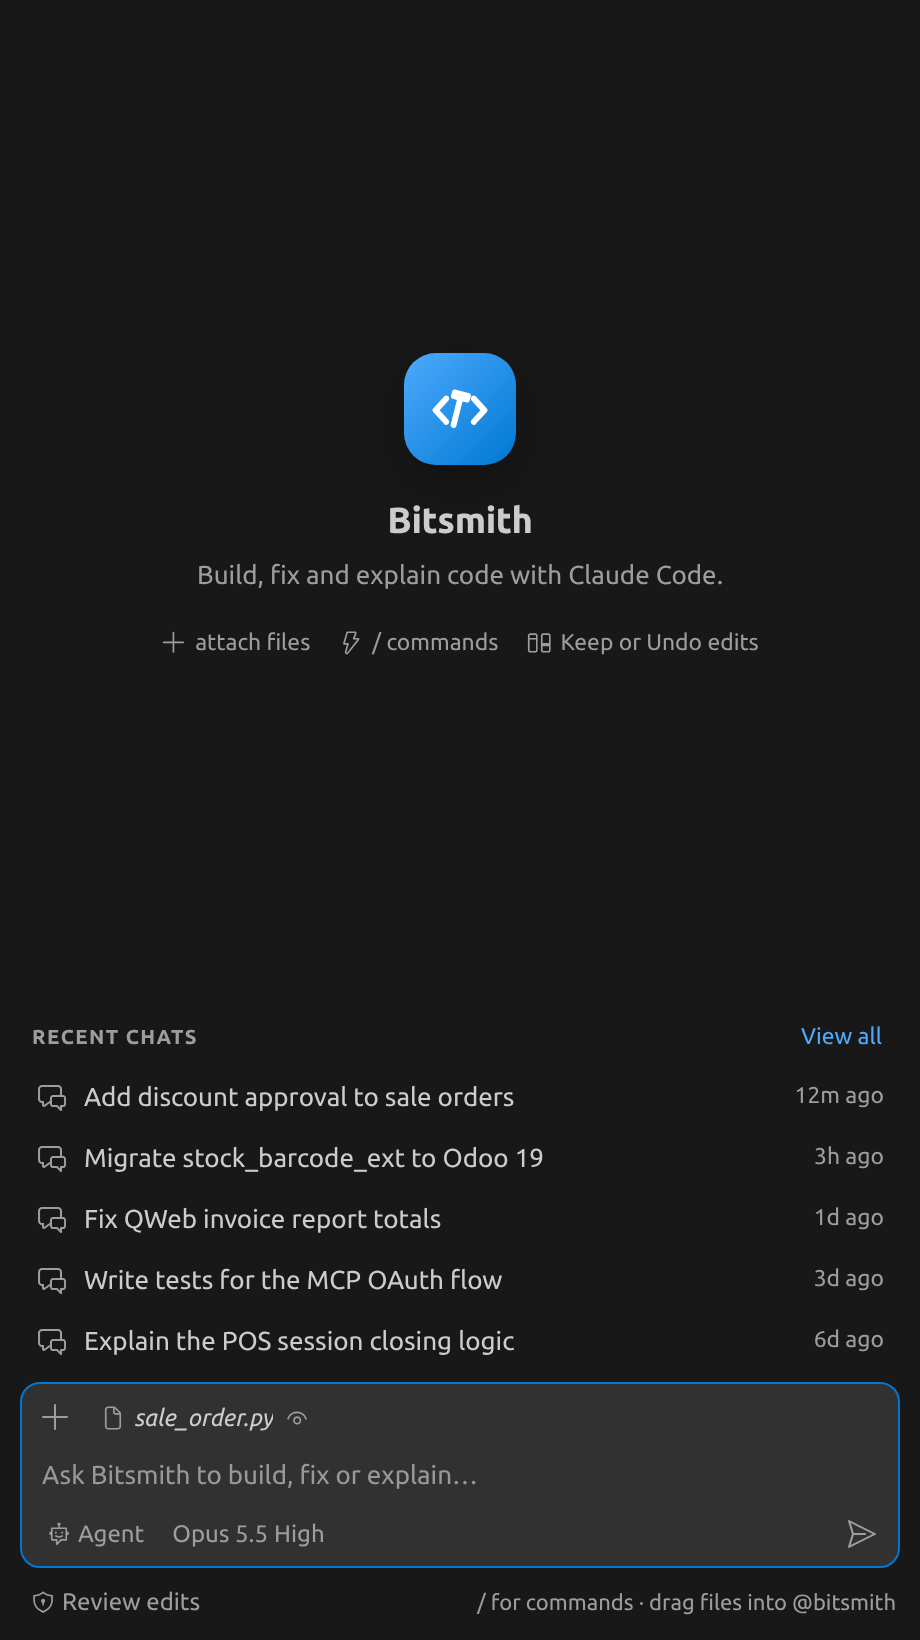
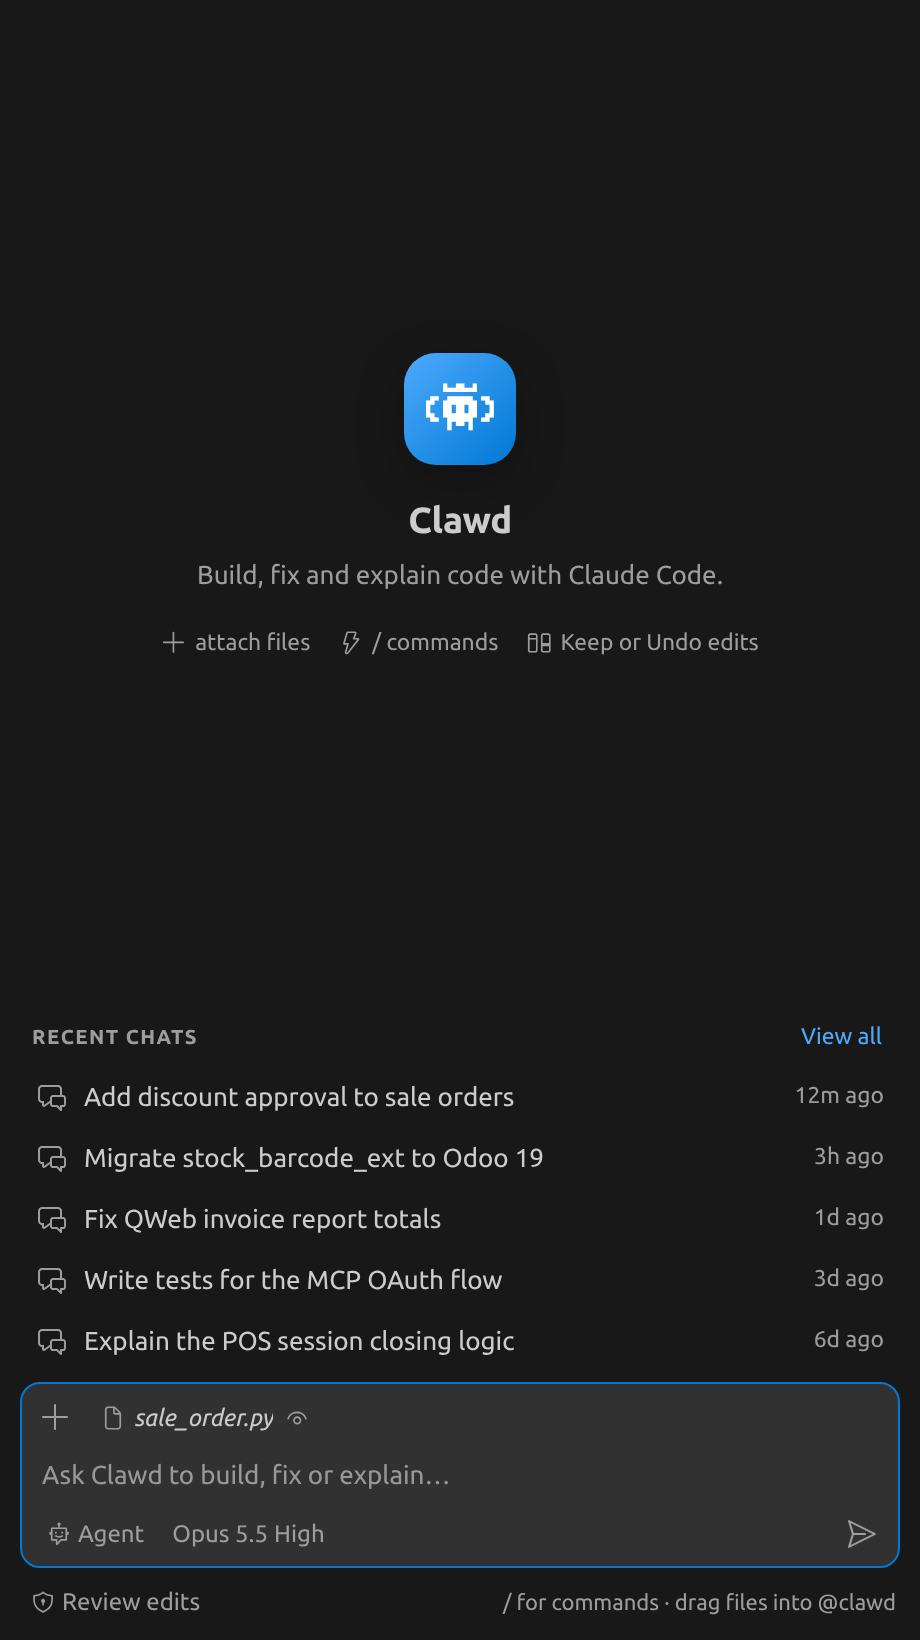
Prepare 1.0.3 for the Marketplace
- Make the plan-usage request opt-in (clawd.pollUsage, off by default);
  usage now updates from Claude Code with each reply
- Add categories, keywords, bugs, homepage and gallery banner to package.json
- README: Marketplace install, independent-project note instead of
  "personal use only", every setting, Agent Changes and Browser tools
- Retake the README screenshots as Clawd and add four new ones
- Leave docs/ out of the .vsix (the Marketplace loads them from GitHub)

diff --git a/extension.js b/extension.js
@@ -1308,7 +1308,7 @@ class ChatProvider {
   // An editor-tab chat's webview loaded: settings, then the conversation from its transcript.
   panelReady(c) {
     c.panel.webview.postMessage({ type: "settings", ...c.settings() });
-    c.panel.webview.postMessage({ type: "usage", usage: this.usage, plan: this.plan });
+    c.panel.webview.postMessage({ type: "usage", usage: this.usage, plan: this.plan, poll: !!vscode.workspace.getConfiguration("clawd").get("pollUsage") });
     if (this.info) c.panel.webview.postMessage({ type: "init", ...this.info });
     c.panel.webview.postMessage({ type: "chats", chats: [{ key: c.key, title: c.title }], active: c.key });
     if (this.folder) c.panel.webview.postMessage(this.sessionsMsg());
@@ -1379,7 +1379,7 @@ class ChatProvider {
       case "openInEditor": return this.openInEditor(c);
       case "ready":
         this.active.postSettings();
-        this.post({ type: "usage", usage: this.usage, plan: this.plan });
+        this.post({ type: "usage", usage: this.usage, plan: this.plan, poll: !!vscode.workspace.getConfiguration("clawd").get("pollUsage") });
         if (this.usageRequested) { this.usageRequested = false; this.post({ type: "showUsage" }); }
         if (this.info) this.post({ type: "init", ...this.info });
         this.post({ type: "chats", chats: [...this.chats.values()].filter((x) => !x.panel).map((x) => ({ key: x.key, title: x.title })), active: this.active.key });
@@ -1658,8 +1658,9 @@ class ChatProvider {
   // ---- plan usage: the CLI's rate_limit_event while chatting, plus a poll of the account's usage endpoint ----
   // Other Claude sessions (terminal, other windows) use the same limits, so the reading from our last message goes stale.
 
+  // Opt-in (clawd.pollUsage): it's the one request Clawd makes itself, with the login Claude Code saved.
   async fetchUsage(force = false) {
-    if (this.fetchingUsage || (!force && this.usage?.updated > Date.now() - USAGE_POLL / 2)) return;
+    if (!vscode.workspace.getConfiguration("clawd").get("pollUsage") || this.fetchingUsage ||(!force && this.usage?.updated > Date.now() - USAGE_POLL / 2)) return;
     this.fetchingUsage = true;
     try {
       const dir = process.env.CLAUDE_CONFIG_DIR || path.join(os.homedir(), ".claude");
@@ -1705,7 +1706,7 @@ class ChatProvider {
   }
 
   updateUsage() {
-    this.post({ type: "usage", usage: this.usage, plan: this.plan });
+    this.post({ type: "usage", usage: this.usage, plan: this.plan, poll: !!vscode.workspace.getConfiguration("clawd").get("pollUsage") });
     const item = this.statusItem;
     if (!item) return;
     const pct = (x) => (x?.used == null ? null : Math.round(x.used * 100));
@@ -2680,8 +2681,10 @@ function activate(context) {
   context.subscriptions.push({ dispose: () => clearInterval(poll) });
   if (vscode.window.onDidChangeWindowState) context.subscriptions.push(vscode.window.onDidChangeWindowState((s) => s.focused && provider.fetchUsage()));
   context.subscriptions.push(status, vscode.commands.registerCommand("clawd.showUsage", () => provider.showUsage()));
-  if (vscode.workspace.onDidChangeConfiguration) context.subscriptions.push(vscode.workspace.onDidChangeConfiguration((e) => e.affectsConfiguration("clawd.browser")
-    && new Set([provider.active, ...provider.chats.values()]).forEach((c) => c?.postSettings()))); // the switch follows Settings
+  if (vscode.workspace.onDidChangeConfiguration) context.subscriptions.push(vscode.workspace.onDidChangeConfiguration((e) => {
+    if (e.affectsConfiguration("clawd.browser")) new Set([provider.active, ...provider.chats.values()]).forEach((c) => c?.postSettings()); // the switch follows Settings
+    if (e.affectsConfiguration("clawd.pollUsage")) { provider.updateUsage(); provider.fetchUsage(true); } // the usage card's footer, and a first reading
+  }));
   const work = vscode.window.createStatusBarItem("clawd.work", vscode.StatusBarAlignment.Right, 101);
   work.name = "Clawd Activity";
   work.command = "clawd.showWorking";

diff --git a/media/chat.js b/media/chat.js
@@ -1328,8 +1328,9 @@ function renderUsage() {
       h("button", { class: "primary small", onclick: () => send({ type: "openUsagePage" }) }, "Manage"),
       h("button", { class: "icon-btn", title: "Close", onclick: () => usageCard.classList.add("hidden") }, icon("close"))),
     ...rows,
-    h("div", { class: "usage-foot muted small" }, icon("info"), h("span", { class: "grow" }, u?.updated ? `Updated ${ago(u.updated)} · refreshes every 2 min` : "Refreshes every 2 min"),
-      h("button", { class: "icon-btn", title: "Refresh now", onclick: () => send({ type: "refreshUsage" }) }, icon("refresh"))));
+    // without clawd.pollUsage the only source is Claude Code's own reading, which comes with each reply
+    h("div", { class: "usage-foot muted small" }, icon("info"), h("span", { class: "grow" }, [u?.updated && `Updated ${ago(u.updated)}`, S.pollUsage ? "refreshes every 2 min" : "updates with each reply"].filter(Boolean).join(" · ")),
+      S.pollUsage && h("button", { class: "icon-btn", title: "Refresh now", onclick: () => send({ type: "refreshUsage" }) }, icon("refresh"))));
 }
 setInterval(() => { if (!usageCard.classList.contains("hidden")) renderUsage(); }, 30000); // keep "Updated … ago" honest while open
 
@@ -1521,7 +1522,7 @@ function handle(m) {
     case "agentProgress": { const row = stepRow(m.toolUseId); if (row && m.text) row.title = m.text; return; }
     case "settings": Object.assign(S, { model: m.model, effort: m.effort, ultracode: m.ultracode, browser: m.browser, mode: m.mode, policy: m.policy, agents: m.agents || [] }); return renderToolbar();
     case "init": S.models = m.models; S.commands = m.commands; return renderToolbar();
-    case "usage": S.usage = m.usage; S.plan = m.plan; return renderUsage();
+    case "usage": S.usage = m.usage; S.plan = m.plan; S.pollUsage = m.poll; return renderUsage();
     case "showUsage": renderUsage(); usageCard.classList.toggle("hidden"); return;
     case "activeFile": S.active = m.file; return renderChips();
     case "addContext": return addItems(m.items);

diff --git a/test/e2e.js b/test/e2e.js
@@ -448,8 +448,12 @@ const said = (p) => p.filter((m) => m.type === "text").map((m) => m.text).join("
     const cfg = fs.mkdtempSync(path.join(require("os").tmpdir(), "bs-cfg-")), noFetch = global.fetch, oldDir = process.env.CLAUDE_CONFIG_DIR, calls = [];
     fs.writeFileSync(path.join(cfg, ".credentials.json"), JSON.stringify({ claudeAiOauth: { accessToken: "tok", expiresAt: Date.now() + 3600e3 } }));
     process.env.CLAUDE_CONFIG_DIR = cfg;
+    const usageCfg = vscode.workspace.getConfiguration;
     global.fetch = async (url, o) => { calls.push([url, o.headers.Authorization]); return { ok: true, json: async () => ({
       five_hour: { utilization: 81, resets_at: "2026-10-05T09:20:00+00:00" }, seven_day: { utilization: 100, resets_at: "2026-10-09T19:00:00+00:00" }, extra_usage: { is_enabled: false } }) }; };
+    await provider.fetchUsage(true);
+    assert.strictEqual(calls.length, 0, "no request unless clawd.pollUsage is on");
+    vscode.workspace.getConfiguration = () => ({ get: (k) => (k === "pollUsage" ? true : usageCfg().get(k)) });
     await provider.fetchUsage(true);
     await provider.fetchUsage(); // just updated: no second request
     assert.deepStrictEqual(calls, [["https://api.anthropic.com/api/oauth/usage", "Bearer tok"]]);
@@ -463,7 +467,7 @@ const said = (p) => p.filter((m) => m.type === "text").map((m) => m.text).join("
     await provider.fetchUsage(true);
     assert.strictEqual(provider.usage, before); // offline keeps the last reading
     provider.usage = null; provider.updateUsage();
-    global.fetch = noFetch;
+    global.fetch = noFetch; vscode.workspace.getConfiguration = usageCfg;
     if (oldDir == null) delete process.env.CLAUDE_CONFIG_DIR; else process.env.CLAUDE_CONFIG_DIR = oldDir;
     fs.rmSync(cfg, { recursive: true });
     console.log("usage refresh ok");

diff --git a/README.md b/README.md
@@ -13,7 +13,7 @@
   <img src="https://img.shields.io/badge/VS%20Code-1.94%2B-007ACC?logo=visualstudiocode&logoColor=white" alt="VS Code 1.94+">
   <img src="https://img.shields.io/badge/powered%20by-Claude%20Code-D97757?logo=anthropic&logoColor=white" alt="Powered by Claude Code">
   <img src="https://img.shields.io/badge/dependencies-none-2ea043" alt="No dependencies">
-  <img src="https://img.shields.io/badge/use-personal-6e7681" alt="Personal use">
+  <img src="https://img.shields.io/badge/license-MIT-6e7681" alt="MIT license">
 </p>
 
 <p align="center">
@@ -22,18 +22,31 @@
 
 Clawd is a coding agent for VS Code's secondary sidebar, powered by your local **Claude Code CLI** and its login.
 
-Clawd has no API key of its own. Its only direct request is reading your plan usage, with the login Claude Code already has. Everything runs through the `claude` command you already use in the terminal, so sessions, skills, hooks, MCP servers and `CLAUDE.md` are shared with it. A chat started in Clawd shows up in `claude --resume`, and the other way round.
+Clawd has no API key, server or account of its own. Everything runs through the `claude` command you already use in the terminal, with your own Claude Code install and your own login, so sessions, skills, hooks, MCP servers and `CLAUDE.md` are shared with it. A chat started in Clawd shows up in `claude --resume`, and the other way round.
 
-> Personal use only. It runs on your own Claude login and rate limits. If it is ever shared with other people, it must be changed to use each user's own API key.
+> Clawd is an independent project, not made or endorsed by Anthropic. Your usage counts against your own Claude plan or API account, under the terms you agreed to with Anthropic. Clawd sends nothing anywhere itself, unless you turn on **`clawd.pollUsage`** (see [Settings](#settings)).
 
 ## Requirements
 
 - VS Code **1.94** or newer
 - [Claude Code](https://docs.anthropic.com/en/docs/claude-code) installed and logged in (run `claude` once in a terminal)
-- Node.js, only to build the `.vsix`
 - Git, for the commit-message button and for undoing changes made by commands
 
 ## Install
+
+From the Marketplace: open the Extensions view, search for **Clawd**, and install *Clawd — Agent Sidebar for Claude Code*. Or run:
+
+```bash
+code --install-extension prince-terabits.clawd
+```
+
+The Clawd icon appears in the secondary sidebar, on the right. Open it with **Ctrl+Shift+Alt+I** (**Cmd+Shift+Alt+I** on a Mac).
+
+If `claude` is not on your `PATH`, set **Settings → Clawd → Claude Path** to its full path, for example `~/.local/bin/claude`.
+
+### From source
+
+Needs Node.js to build the `.vsix`:
 
 ```bash
 git clone https://github.com/prince-terabits/clawd.git
@@ -42,11 +55,7 @@ npx --yes @vscode/vsce package
 code --install-extension clawd-*.vsix --force
 ```
 
-Then run **Developer: Reload Window**. The Clawd icon appears in the secondary sidebar, on the right. Open it with **Ctrl+Shift+Alt+I** (**Cmd+Shift+Alt+I** on a Mac).
-
-If `claude` is not on your `PATH`, set **Settings → Clawd → Claude Path** to its full path, for example `~/.local/bin/claude`.
-
-### Update
+Then run **Developer: Reload Window**. To update a source install:
 
 ```bash
 cd clawd && git pull
@@ -66,6 +75,14 @@ Then reload the window.
   <tr>
     <td align="center"><img src="docs/background.png" alt="Background agents and a running server"><br><sub><b>Background work:</b> agents and servers keep running, with their steps nested</sub></td>
     <td align="center"><img src="docs/usage.png" alt="Plan usage card"><br><sub><b>Usage:</b> your 5-hour and weekly Claude limits at a glance</sub></td>
+  </tr>
+  <tr>
+    <td align="center"><img src="docs/menu.png" alt="Model menu with effort, Ultracode and Browser tools switches"><br><sub><b>Model menu:</b> model, effort, and switches for Ultracode and browser tools</sub></td>
+    <td align="center"><img src="docs/slash.png" alt="Slash command menu"><br><sub><b>Commands:</b> type <code>/</code> for every Claude Code command and your skills</sub></td>
+  </tr>
+  <tr>
+    <td align="center"><img src="docs/browser.png" alt="Claude opening and checking a web page"><br><sub><b>Browser tools:</b> Claude opens, reads, clicks and checks pages in its own Chrome</sub></td>
+    <td align="center"><img src="docs/changes.png" alt="Changed files list with Keep and Undo"><br><sub><b>Review:</b> every changed file with its +/− counts; keep or undo them all or one by one</sub></td>
   </tr>
 </table>
 
@@ -104,15 +121,15 @@ Then reload the window.
 ### Controls
 
 - **Mode:** Agent or Plan. In Plan mode, Claude shows a plan card for you to approve first.
-- **Model** and **effort** pickers.
+- **Model menu:** model and effort, plus two switches: **Ultracode** (big tasks run as several agents in parallel) and **Browser tools** (turns Claude's Chrome on or off for every chat; a 🌐 next to the model name shows it's on).
 - **Approval policy:**
   - *Review* (default): edits are applied at once and you keep or undo them afterwards; commands ask first.
   - *Ask*: every edit shows a diff and waits for you. An **Allow all edits in this chat** button stops further asking for that chat.
   - *Bypass*: nothing asks.
   - Whatever the policy, an edit that could make something else run commands later always asks: anything under `.git/`, `.claude/`, `.vscode/`, `.husky/`, `.devcontainer/` or `.github/workflows/`, a shell startup file such as `.bashrc`, and any file outside the open folder (symlinks are followed) apart from scratch files in the temp directory. The card says why it asked, and "Allow all edits" doesn't cover these.
   - Clawd settings can only be set in your user settings, not by a repo's `.vscode/settings.json`.
-- **Context meter:** a ring that shows how full the context window is. Click it to run `/compact`.
-- **Usage in the status bar:** your 5-hour and weekly plan usage. A percentage appears from 70%, yellow at 80% and red at 95%. Click it for details. It refreshes every 2 minutes while VS Code is focused, so usage from other Claude sessions shows up too.
+- **Context meter:** a ring that shows how full the context window is. Click it to run `/compact`. Long chats compact on their own at about 500k tokens (**`clawd.autoCompactAt`**).
+- **Usage in the status bar:** your 5-hour and weekly plan usage, as Claude Code reports it with each reply. A percentage appears from 70%, yellow at 80% and red at 95%. Click it for details. Turn on **`clawd.pollUsage`** to also refresh it every 2 minutes, so usage from other Claude sessions shows up without sending a message.
 
 ### Watching Claude work
 
@@ -124,6 +141,7 @@ Then reload the window.
 ### Reviewing and undoing changes
 
 - **Keep or Undo** each change from the editor (per change or per file), from the changes panel above the input, or for all files at once.
+- **Agent Changes** in the Source Control sidebar lists every file waiting for review, with its folder and +/− counts, separate from your git repositories. Click a file for its diff; ✓ and ↺ keep or undo one file, or all of them from the section's title.
 - Changed lines are highlighted. Removed lines show as a faded "− was: …" note at the end of the line; hover over it to see the old lines.
 - **Restore checkpoint** on any reply puts back the files changed since that point and makes Claude forget everything after it. This also covers files changed by commands (`sed`, scripts and so on) in a git repo.
 - **Redo** brings a restore back, one step at a time.
@@ -138,7 +156,7 @@ Then reload the window.
 
 ### Browser
 
-Set **`clawd.browser`** to `window` or `headless` and Claude gets its own Chrome to test your app: open a page, read it, click, type, press keys, take screenshots and check the console. In headless mode a **Claude's Browser** tab opens beside the chat with a live view you can click, scroll and type into; run **Clawd: Show Claude's Browser** to open it in window mode too. Each chat gets a throwaway profile that's deleted when it ends, unless you turn on **`clawd.browserKeepLogins`**: then logins stay in a Clawd-only Chrome profile (not your own). Reading the page, screenshots and the console never ask; opening, clicking and typing follow your approval policy. Needs Chrome, Chromium or Edge installed.
+Turn on **Browser tools** in the model menu (or set **`clawd.browser`** to `window` or `headless`) and Claude gets its own Chrome to test your app: open a page, read it, click, type, press keys, take screenshots and check the console. In headless mode a **Claude's Browser** tab opens beside the chat with a live view you can click, scroll and type into; run **Clawd: Show Claude's Browser** to open it in window mode too. Each chat gets a throwaway profile that's deleted when it ends, unless you turn on **`clawd.browserKeepLogins`**: then logins stay in a Clawd-only Chrome profile (not your own). Reading the page, screenshots and the console never ask; opening, clicking and typing follow your approval policy. Needs Chrome, Chromium or Edge installed.
 
 ### Git
 
@@ -164,6 +182,10 @@ Set **`clawd.browser`** to `window` or `headless` and Claude gets its own Chrome
 | `clawd.defaultPolicy` | `review` | Approval policy for new chats: `review`, `ask` or `bypass` |
 | `clawd.browser` | `off` | Browser tools for Claude: `off`, `window` (a visible Chrome) or `headless` |
 | `clawd.browserKeepLogins` | `false` | Keep the browser's logins between chats |
+| `clawd.autoCompactAt` | `500000` | When a long chat compacts on its own: 150k–500k tokens, Claude Code's default (near the model's limit), or off |
+| `clawd.fallbackModel` | `sonnet` | Model a reply goes on with when the chat's model is overloaded or unavailable (or off) |
+| `clawd.diagnostics` | `true` | After each edit, send the errors VS Code reports in that file back to Claude so it can fix them |
+| `clawd.pollUsage` | `false` | Also refresh plan usage every 2 minutes by asking Anthropic directly with Claude Code's saved login. Off: usage updates with each reply |
 
 All of them are machine-scoped on purpose: a folder's `.vscode/settings.json` can't change which binary Clawd launches or turn approvals off. Clawd also stays off in Restricted Mode until you trust the folder.
 

diff --git a/CHANGELOG.md b/CHANGELOG.md
@@ -6,6 +6,10 @@
   there is nothing to edit, retry or undo. The "Conversation compacted" notice stays.
 - **Fix:** a chat no longer disappears from history after Undo, Restore or a compaction makes a new copy that has
   no message of its own yet. The chat stays listed, and its pin stays put, until you send something in the copy.
+- **Usage polling is opt-in:** Clawd no longer asks Anthropic for your plan usage on its own. The status bar and usage
+  card update from Claude Code with each reply. Turn on `clawd.pollUsage` to also refresh every 2 minutes, as before.
+- **Marketplace ready:** categories, keywords and links for the listing, an updated README (install from the
+  Marketplace, every setting, new screenshots), and a smaller package without the README images.
 - **Agent Changes view:** files waiting for Keep or Undo now show in their own "Agent Changes" section of the
   Source Control sidebar, with each file's folder and +/− counts, instead of as a "Clawd" repository among your git
   repos. Keep or Undo a file inline, or all of them from the section's title (Undo All asks first).
